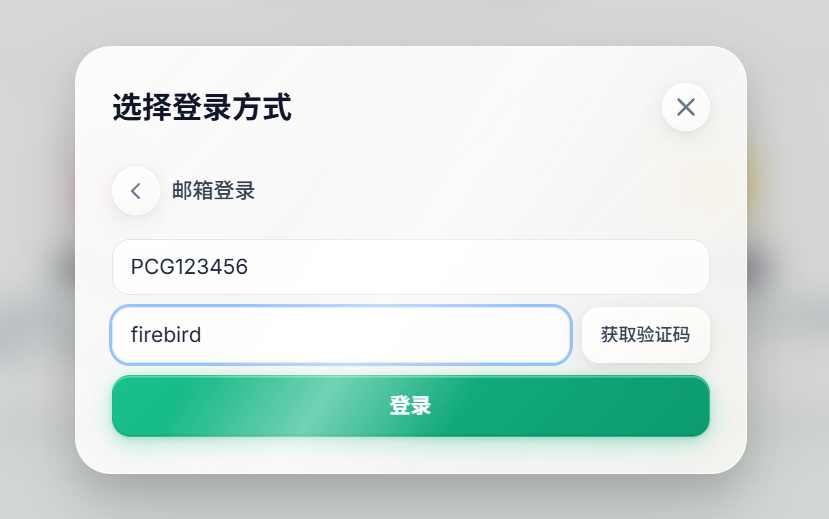
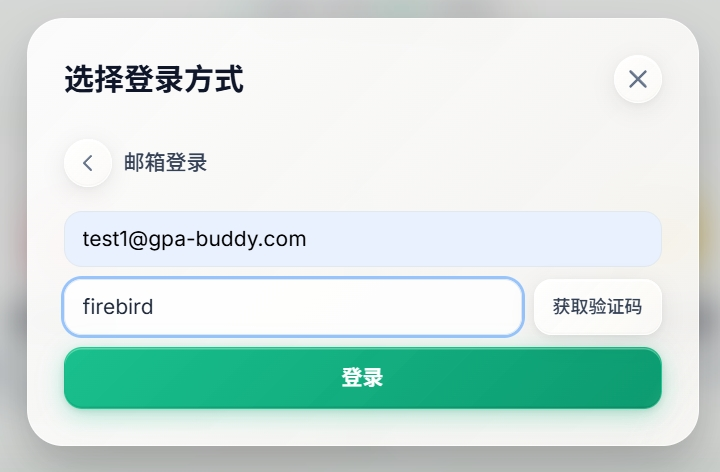
readme update

diff --git a/README.md b/README.md
@@ -71,7 +71,9 @@ password:firebird
 1. **Agent能力无缝整合进传统学习流程**，不改变用户习惯。学生不用单独开一个聊天窗口，而是在正常学习的时候，**AI能力正好出现在学生需要的地方**。<u>*没有任何一个地方需要他自己‘说点什么’*</u>。
    
     ```python
-    想象一个学生要考试了，他只需要点几个按钮，把课程导进去，点‘智能刷题’，系统就会把适合他的题目呈上来。碰到不会的题，可以直接查看原文是怎么说的，看不明白还可以问页面内的AI。如果他发现自己一点没学，可以顺手生成一个思维导图，看看这门课大概讲了什么。
+    想象一个学生要考试了，他只需要点几个按钮，把课程导进去，点‘智能刷题’，系统就会把适合他的题目呈上来。
+    碰到不会的题，可以直接查看原文是怎么说的，看不明白还可以问页面内的AI。
+    如果他发现自己一点没学，可以顺手生成一个思维导图，看看这门课大概讲了什么。
     ```
     
    
@@ -86,5 +88,6 @@ password:firebird
 6. **深度使用谷歌生态，把最重的工程负担交给了平台**。文件解析不用自己写：**Gemini多模态+GCS** 让agent直接读懂PDF里的图文，整个文件解析层全省了。调度不用自己写：用 **ADK** 把两个生产级agent（答疑助教+图谱导学工作流）搭成声明式编排，**output_schema**结构化输出让JSON修复兜底代码直接消失。运维不用自己管：**Agent Runtime**托管部署和扩缩容，**Agent Registry**部署即注册，零配置。模型也不用将就：**Gemini 2.5 pro**搭骨架、**flash lite**并行填充节点，质量和成本各取所需。
 
     ```python
-    一个直观的例子：思维导图的节点内容生成，原本是后端200多行手写调度（拓扑分批、失败重试、JSON修复兜底）。改成ADK工作流后，变成‘骨架agent+并行填充agent’的声明式编排，这些调度代码不再需要我们维护。
+    一个直观的例子：思维导图的节点内容生成，原本是后端200多行手写调度（拓扑分批、失败重试、JSON修复兜底）。
+    改成ADK工作流后，变成‘骨架agent+并行填充agent’的声明式编排，这些调度代码不再需要我们维护。
     ```
